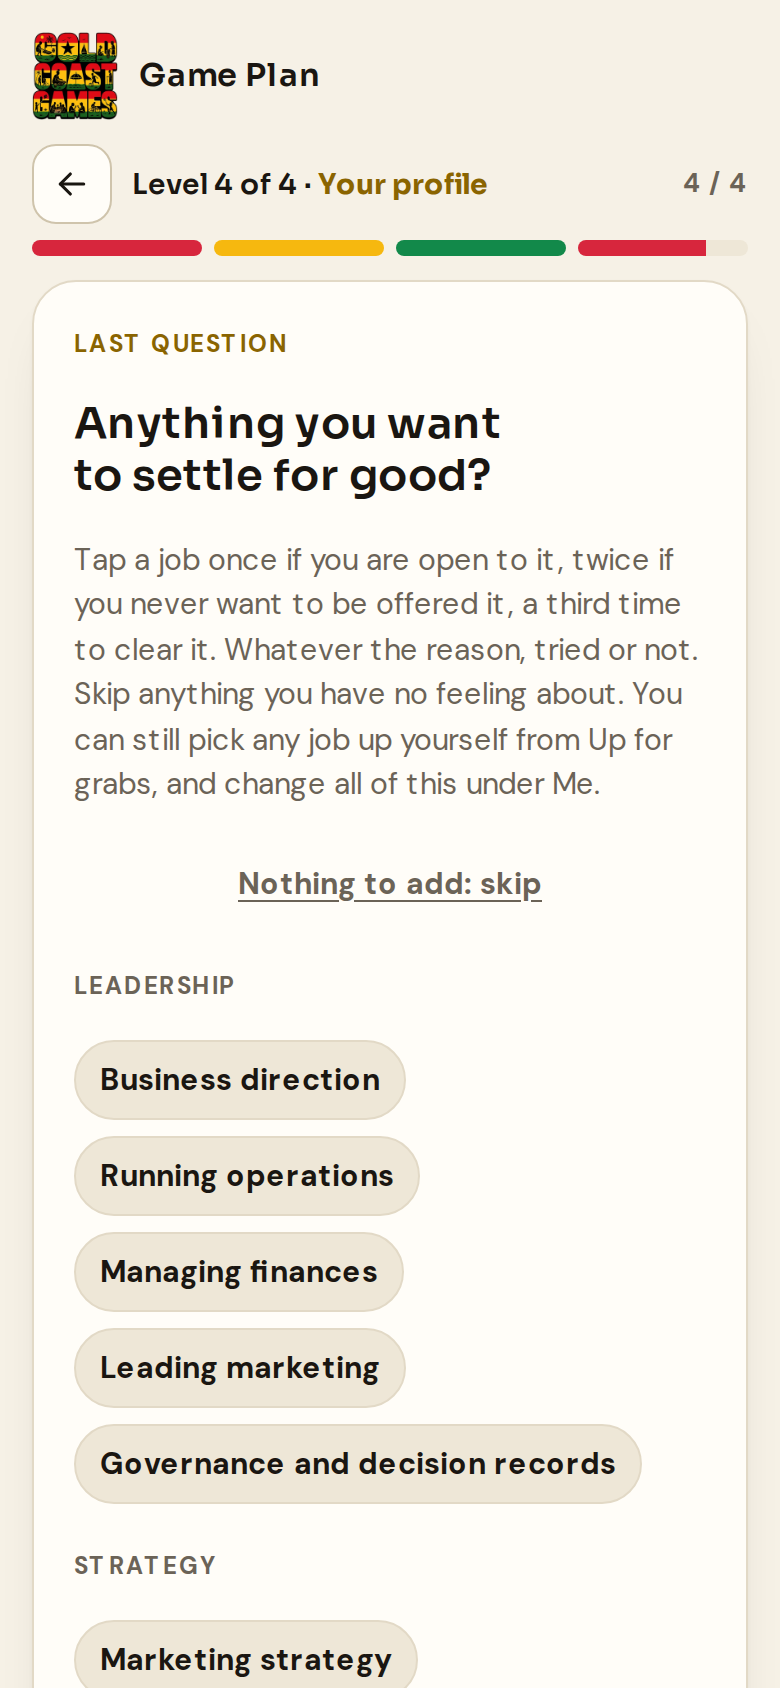
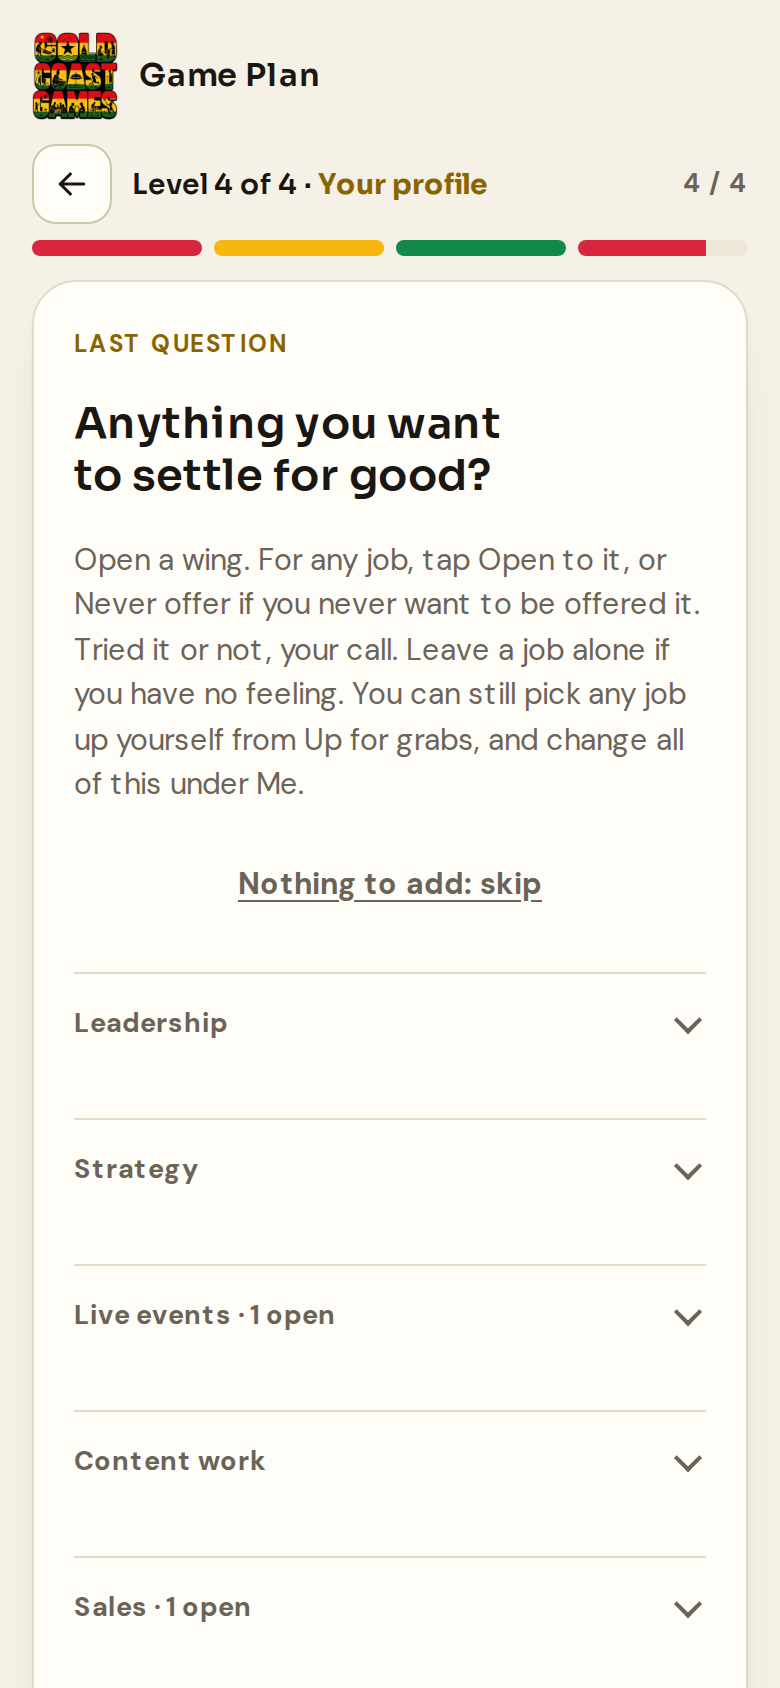
Final step: two labelled buttons per job (Open to it, Never offer) grouped by wing instead of tap cycling
Claude-Session: https://claude.ai/code/session_01JE2q3PibkVT4seoSptK9bV

diff --git a/gcg-game-plan.html b/gcg-game-plan.html
@@ -863,7 +863,7 @@ button.chip.on{outline:2px solid var(--ink)}
 .steps{margin:0;padding-left:20px;display:grid;gap:8px}.steps p{margin:2px 0 0}
 .cvrow{border-top:1px solid var(--line);padding:10px 0}.cvline{display:flex;flex-wrap:wrap;align-items:center;justify-content:space-between;gap:8px 10px;padding:2px 0}.cvline .cv-t{flex:1 1 100%}.cvline .cvbtns{flex:0 0 auto}
 .cv-t{display:grid;gap:1px;flex:1;min-width:0}.covered-list{margin-top:8px}
-.covered-line{margin:4px 0}.cvbtns{display:flex;gap:6px;flex-shrink:0}
+.covered-line{margin:4px 0}.cvbtns{display:flex;gap:6px;flex-shrink:0}.avopen[aria-pressed="true"]{background:var(--gold);color:var(--on-gold);border-color:var(--ink)}.avno[aria-pressed="true"]{background:var(--red);color:var(--on-red);border-color:var(--ink)}
 .viewsw{appearance:none;background:none;color:inherit;border:1px solid currentColor;border-radius:999px;padding:7px 12px;font:600 13px var(--font-body);cursor:pointer;margin-left:auto;opacity:.9;min-height:34px}
 .viewsw[hidden]{display:none}
 .viewsw:not([hidden])+.bellbtn{margin-left:4px}
@@ -1793,23 +1793,30 @@ var BUILD={
     return hd2;
   },
   avoid:function(card){
-    // The last question. Each job has three states, cycled by tapping: nothing, open to it, never offer. Jobs they said yes to are left out.
-    // They can still pick any job up themselves from Up for grabs.
+    // The last question. Each job has two labelled buttons: "Open to it" or "Never offer". Leave a job alone for no feeling.
+    // Jobs they said yes to are left out. They can still pick any job up themselves from Up for grabs.
     var list=FNS.filter(function(f){return f.when!=="Later"&&S.levels[f.id]!=="good";});
-    var hd=shell(card,"Last question","Anything you want to settle for good?","Tap a job once if you are open to it, twice if you never want to be offered it, a third time to clear it. Whatever the reason, tried or not. Skip anything you have no feeling about. You can still pick any job up yourself from Up for grabs, and change all of this under Me.");
+    var hd=shell(card,"Last question","Anything you want to settle for good?","Open a wing. For any job, tap Open to it, or Never offer if you never want to be offered it. Tried it or not, your call. Leave a job alone if you have no feeling. You can still pick any job up yourself from Up for grabs, and change all of this under Me.");
     card.append(h("button",{type:"button",class:"btn link",text:"Nothing to add: skip",onclick:next}));
-    var cnt=h("p",{class:"sub jhint",role:"status","aria-live":"polite"});
+    var cnt=h("p",{class:"sub jhint",role:"status","aria-live":"polite"}),sums={};
+    function counts(A){var no=0,op=0;list.filter(function(f){return f.area===A.id;}).forEach(function(f){if(S.levels[f.id]==="no")no++;else if(S.levels[f.id]==="curious")op++;});return {no:no,op:op};}
+    function sumText(A){var c=counts(A),t=[];if(c.op)t.push(c.op+" open");if(c.no)t.push(c.no+" never");return A.short+(t.length?" · "+t.join(", "):"");}
     function paintCount(){var no=0,op=0;Object.keys(S.levels).forEach(function(k){if(S.levels[k]==="no")no++;else if(S.levels[k]==="curious")op++;});
-      cnt.textContent=(no||op)?(op?op+" open to it":"")+(no&&op?" · ":"")+(no?no+" never offer":""):"Nothing marked yet. That is fine.";}
-    function paintChip(b,f){var v=S.levels[f.id];b.className="chip"+(v==="no"?" no on":v==="curious"?" curious on":"");
-      b.setAttribute("aria-label",f.name+": "+(v==="no"?"never offer":v==="curious"?"open to it":"no feeling"));b.setAttribute("aria-pressed",String(!!v));}
+      cnt.textContent=(no||op)?(op?op+" open to it":"")+(no&&op?" · ":"")+(no?no+" never offer":""):"Nothing marked yet. That is fine.";
+      AREAS.forEach(function(A){if(sums[A.id])sums[A.id].textContent=sumText(A);});}
     AREAS.forEach(function(A){
       var js=list.filter(function(f){return f.area===A.id;});if(!js.length)return;
-      card.append(h("p",{class:"lab",text:A.short}),h("div",{class:"chips avoidchips"},js.map(function(f){
-        var b=h("button",{type:"button",class:"chip",text:f.name,onclick:function(){
-          var v=S.levels[f.id];if(!v)S.levels[f.id]="curious";else if(v==="curious")S.levels[f.id]="no";else delete S.levels[f.id];
-          saveDraft();paintChip(b,f);paintCount();}});
-        paintChip(b,f);return b;})));
+      var sm=h("summary",{text:sumText(A)});sums[A.id]=sm;
+      var d=h("details",{class:"more avoidwing",open:S.panel["avoid:"+A.id]?true:null,ontoggle:function(e){S.panel["avoid:"+A.id]=e.currentTarget.open;}},sm);
+      js.forEach(function(f){
+        var bo=h("button",{type:"button",class:"btn small avopen",text:"Open to it"}),bn=h("button",{type:"button",class:"btn small avno",text:"Never offer"});
+        function paint(){var v=S.levels[f.id];bo.setAttribute("aria-pressed",String(v==="curious"));bn.setAttribute("aria-pressed",String(v==="no"));}
+        bo.addEventListener("click",function(){if(S.levels[f.id]==="curious")delete S.levels[f.id];else S.levels[f.id]="curious";saveDraft();paint();paintCount();});
+        bn.addEventListener("click",function(){if(S.levels[f.id]==="no")delete S.levels[f.id];else S.levels[f.id]="no";saveDraft();paint();paintCount();});
+        paint();
+        d.append(h("div",{class:"cvrow"},h("div",{class:"cvline"},h("span",{class:"cv-t"},h("b",{text:f.name})),h("span",{class:"cvbtns"},bo,bn))));
+      });
+      card.append(d);
     });
     card.append(cnt);paintCount();
     var ta=h("textarea",{id:"avoidnote",rows:"2",maxlength:"250",placeholder:"Anything else you would rather avoid? Type it in your own words (optional)"});
